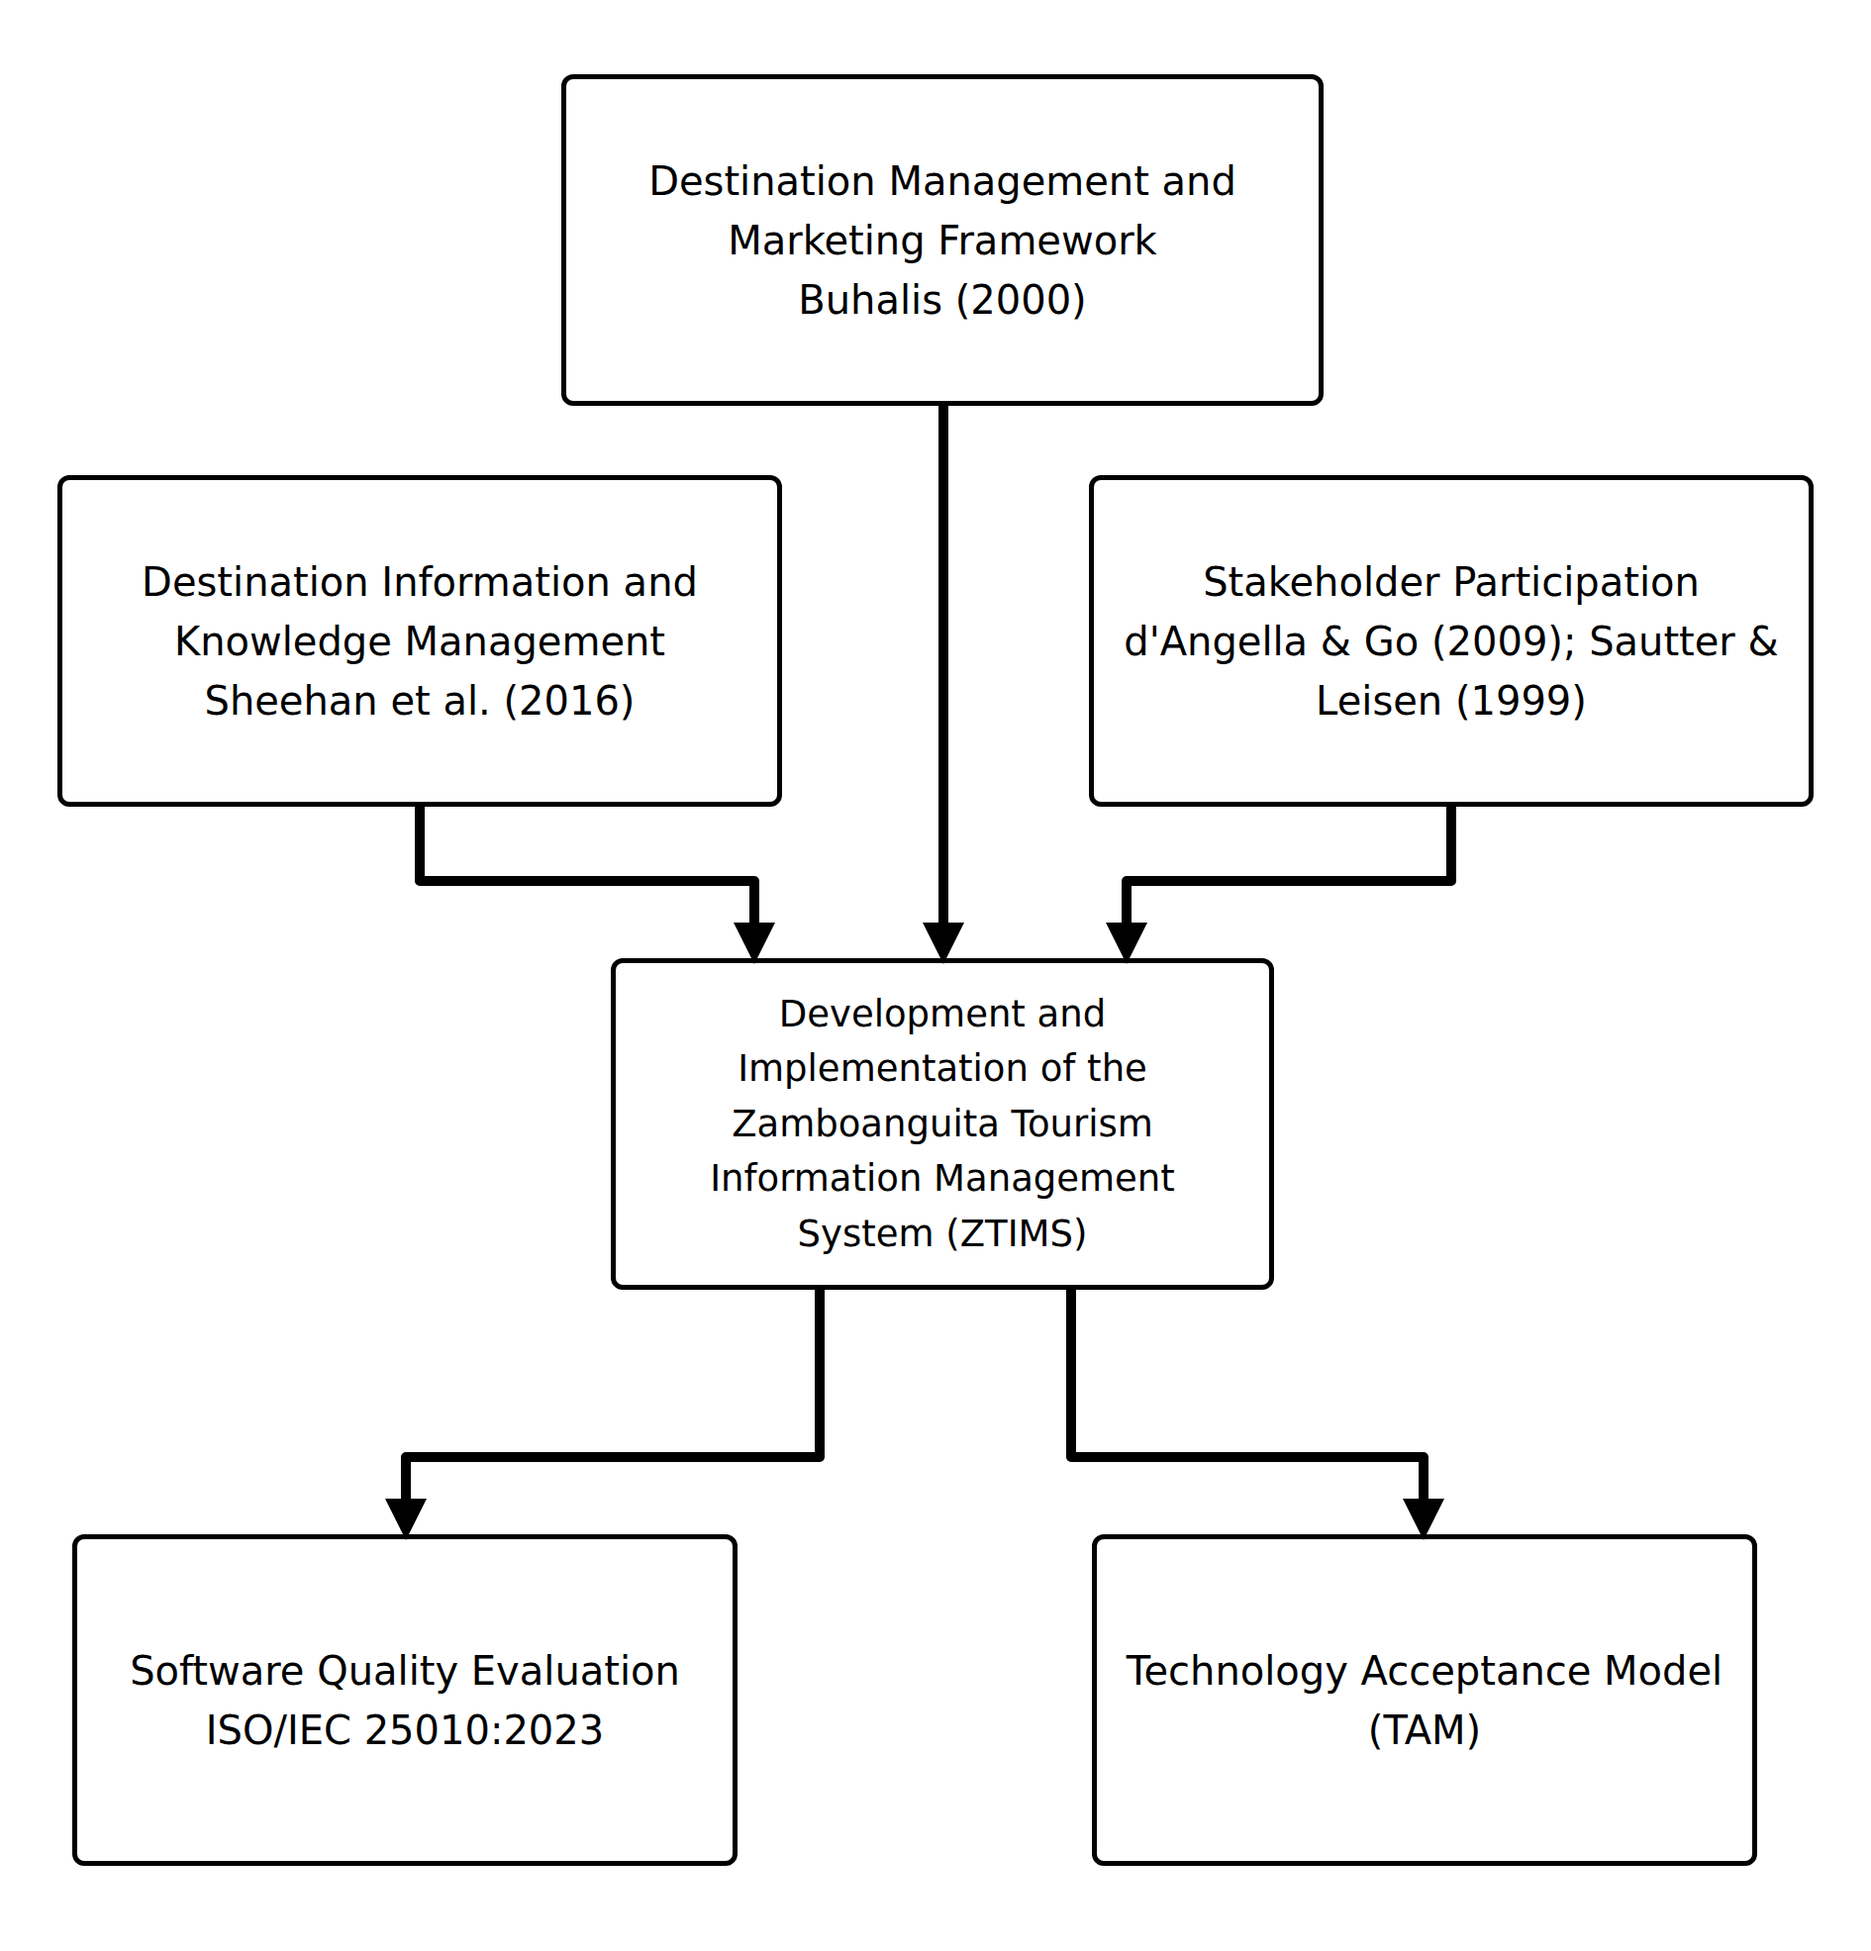
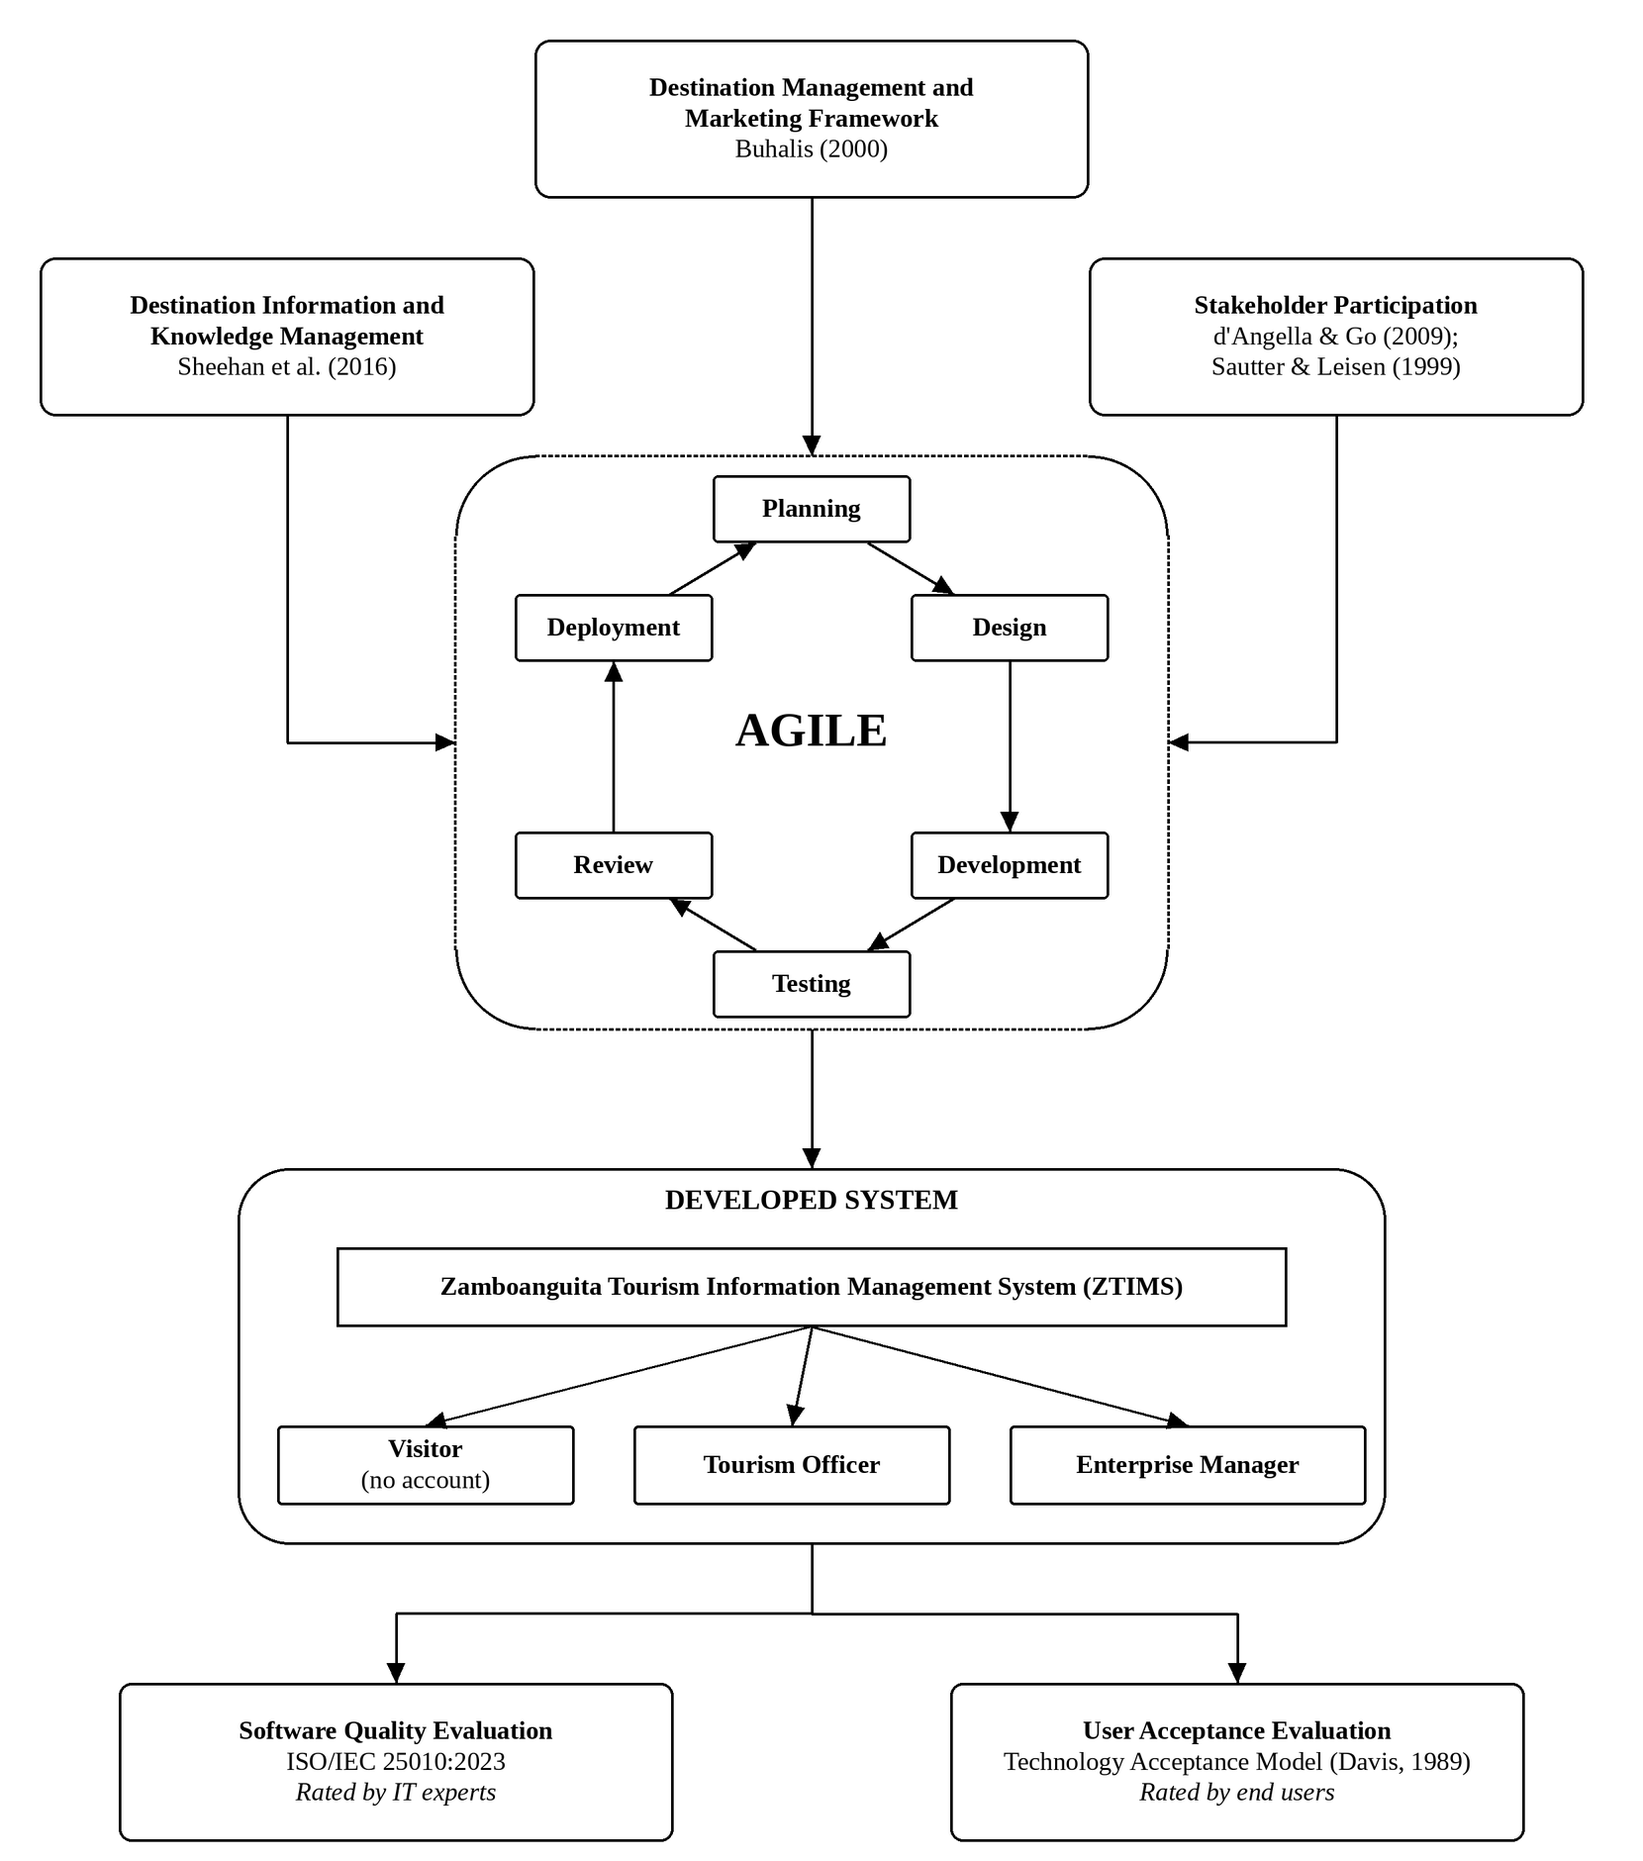
Redraw the theoretical framework figure in the sample layout, with its draw.io source
Claude-Session: https://claude.ai/code/session_01DodXmhEpoi71garNeHNJmv

diff --git a/docs/MANUSCRIPT-NOTES.md b/docs/MANUSCRIPT-NOTES.md
@@ -353,6 +353,26 @@ Google), Create an account, Check your email, My account (its six tabs: My
 tickets, My bookings, Saved places, My reviews, Profile, Security), the header's
 Sign in and account menu, and the room form's "Your details" filled from the
 account.
+## The theoretical framework figure follows the sample layout (10 November 2026)
+
+**The change.** Nothing in the system. Figure 1 was redrawn in the layout of the
+sample the user gave: the three framework boxes (Buhalis 2000; Sheehan et al.
+2016; d'Angella & Go 2009 with Sautter & Leisen 1999) point into the Agile
+cycle (Planning, Design, Development, Testing, Review, Deployment), which leads
+to the Developed System (ZTIMS, with its users: Visitor, Tourism Officer,
+Enterprise Manager) and then to the two evaluations (ISO/IEC 25010:2023 by IT
+experts; TAM, Davis 1989, by end users). Editable file
+`docs/diagrams/ztims-theoretical-framework.drawio`; the PNG beside it is a
+preview made from the same geometry (the draw.io app was not available), so
+export the final PNG from draw.io.
+
+**Change in the manuscript:** replace Figure 1 with the new picture; keep the
+caption `Figure 1. Theoretical Framework of the Study`. Add one sentence under
+the framework's first paragraph that describes the figure in the order of its
+arrows. The conceptual framework's Process paragraph (and Figure 2) still say
+"guided by the destination management and marketing framework (Buhalis,
+2000)" only; make them name the same three sources as Figure 1, or keep Figure 1
+to Buhalis alone.
 
 ## Room booking: the complete module (9 November 2026)
 
